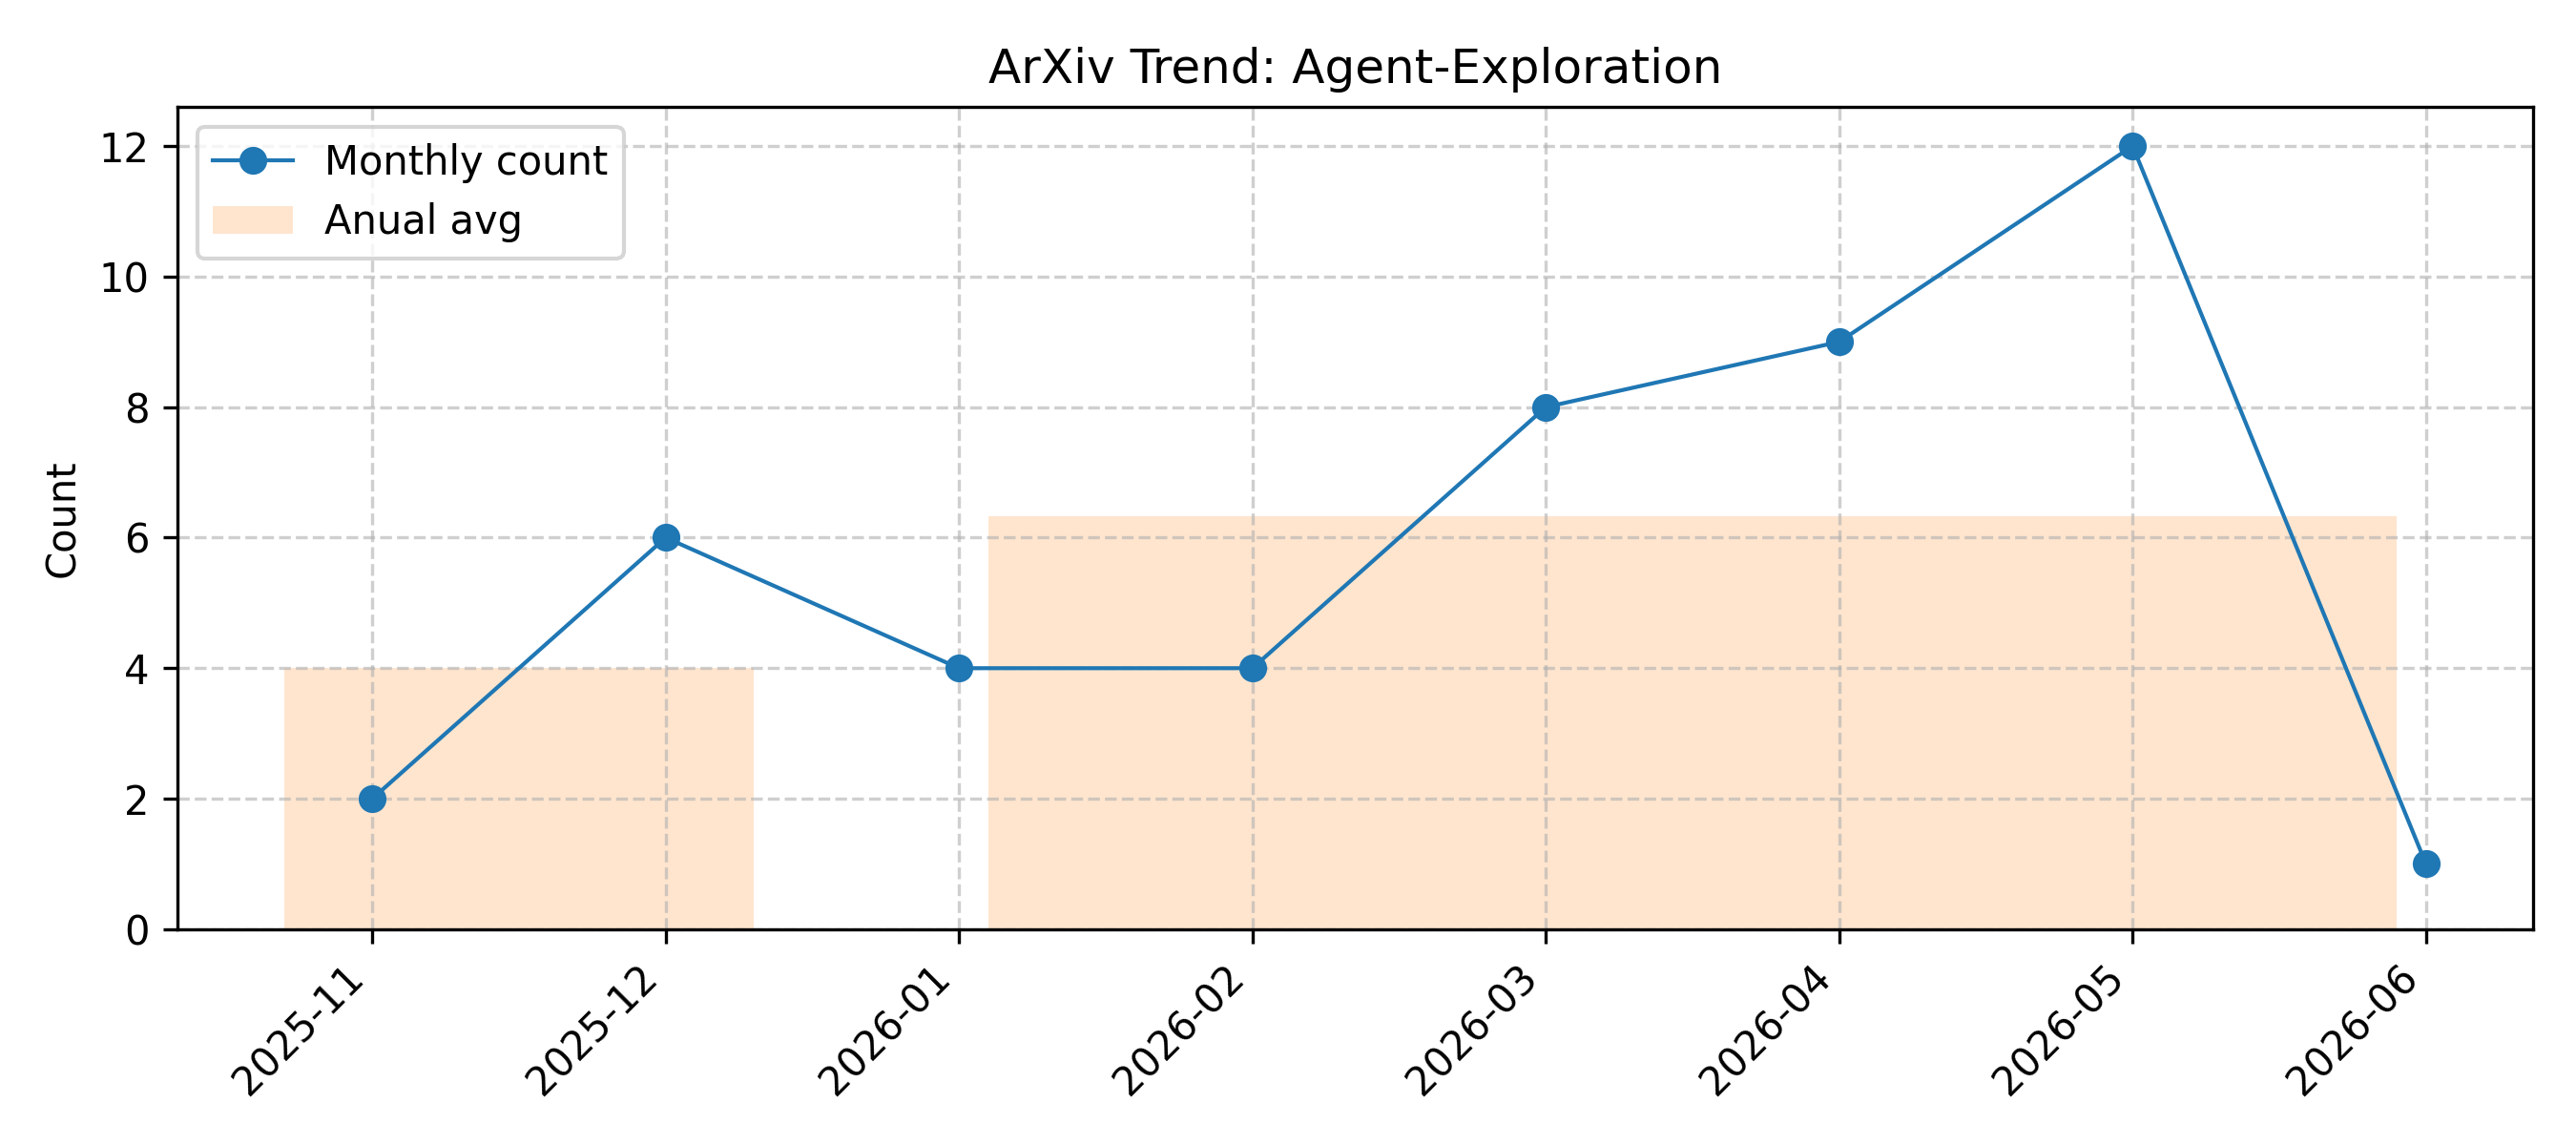
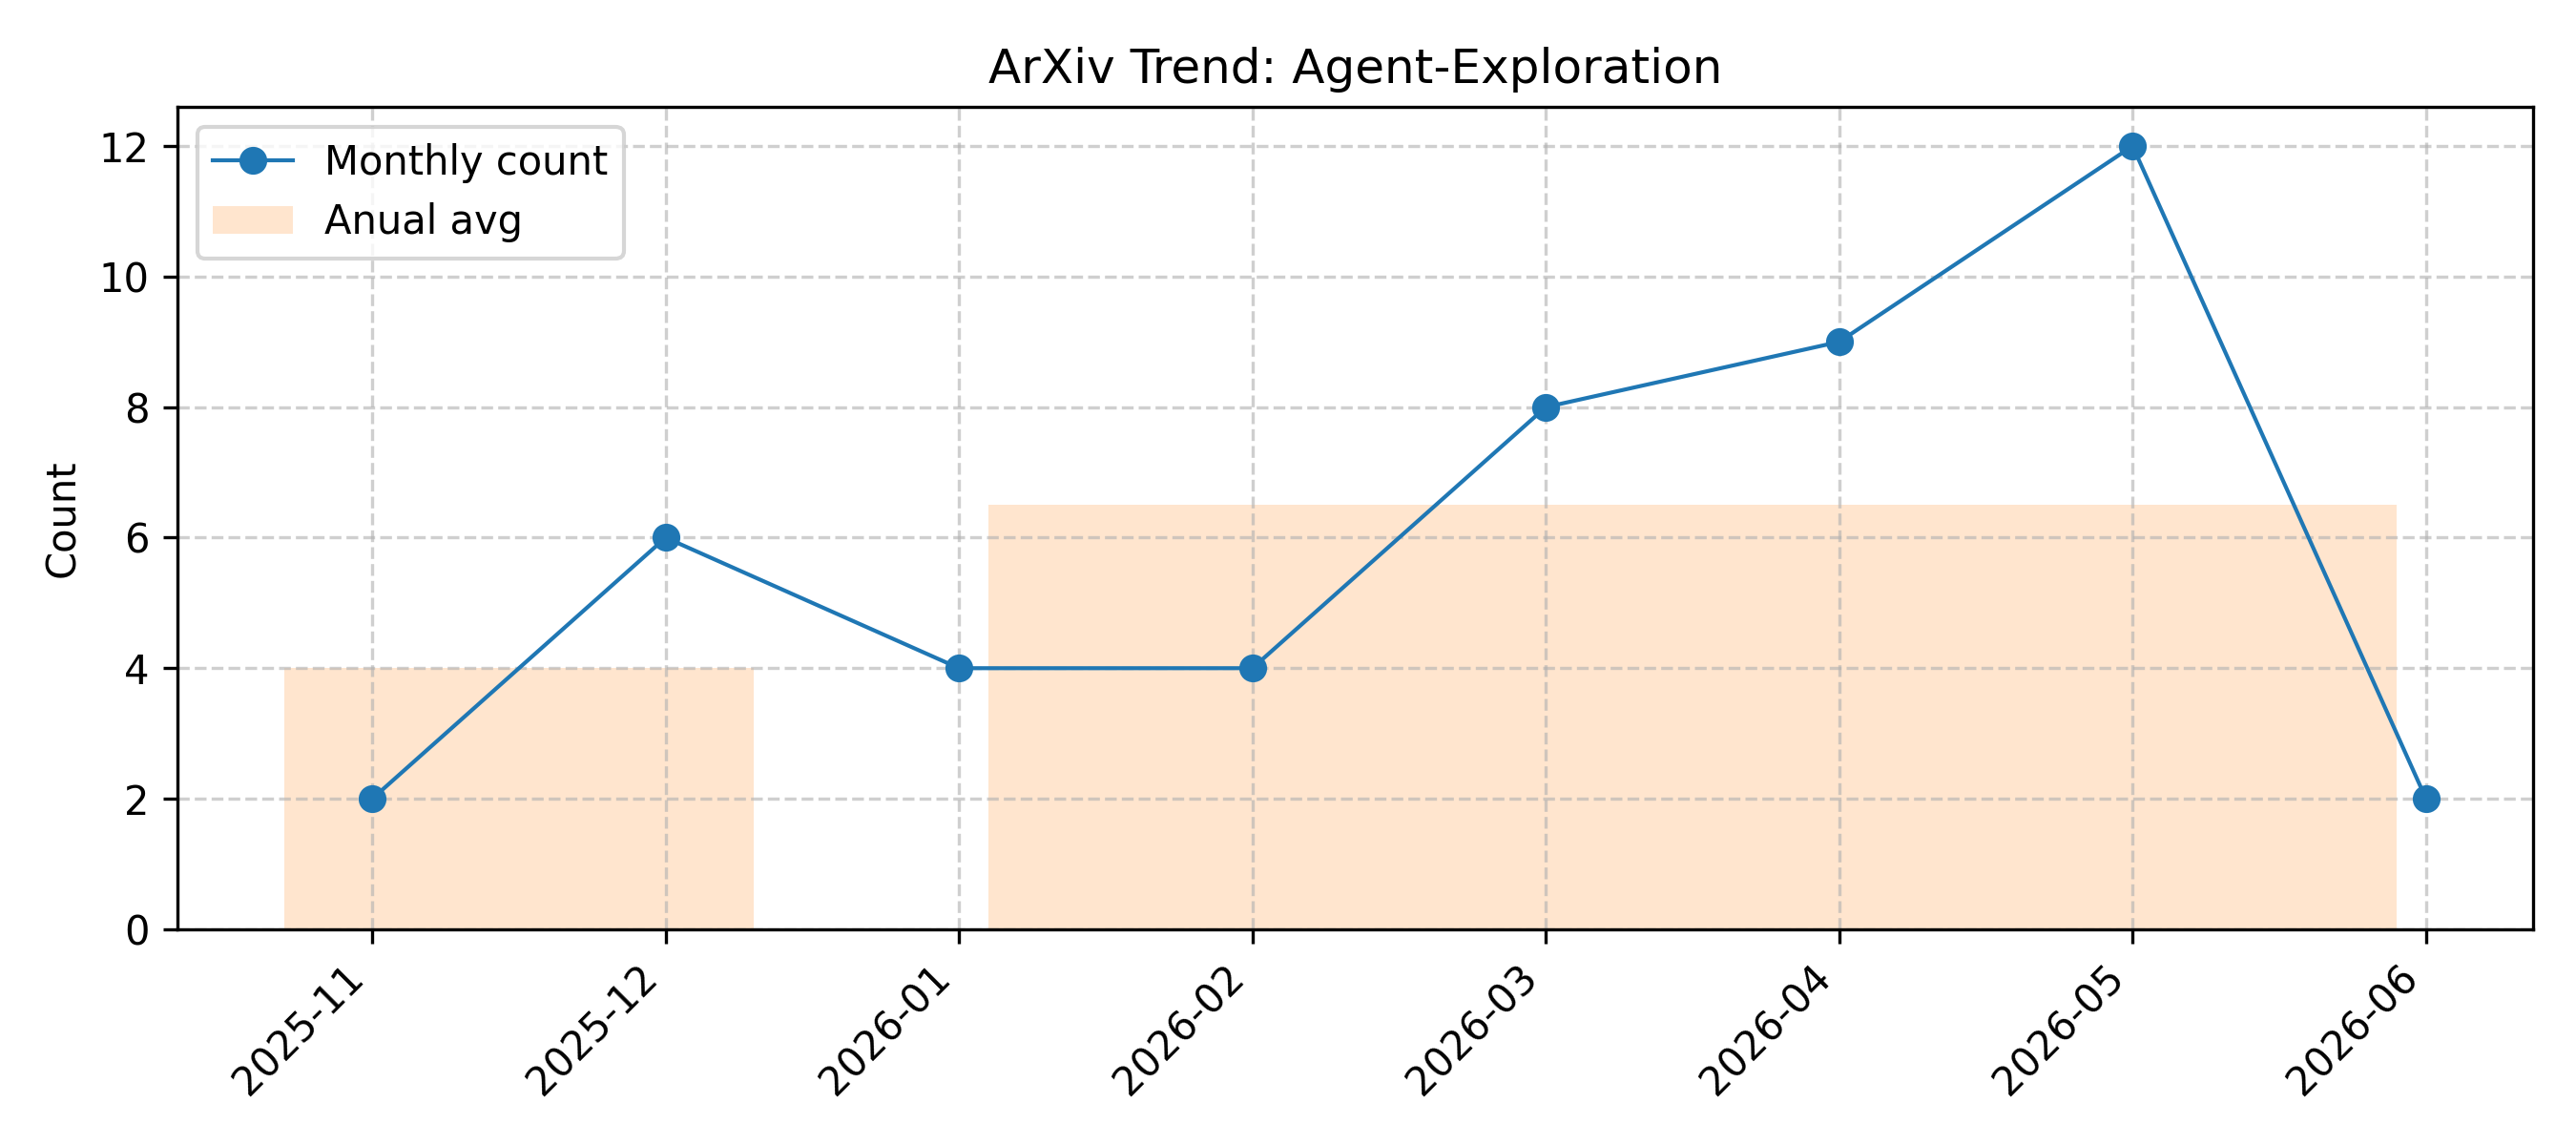
Github Action Automatic Update Arxiv Papers

diff --git a/CodeGeneration_LLM.md b/CodeGeneration_LLM.md
@@ -1,6 +1,6 @@
 # CodeGeneration_LLM
 
-> Updated on 2026.06.10
+> Updated on 2026.06.11
 
 [🔙 Back to Index](README.md)
 
@@ -8,6 +8,10 @@
 
 | Date | Title | Categories | Abstract | PDF | Code |
 |:---|:---|:---|:---|:---|:---|
+|**2026-06-10**|**Breaking Entropy Bounds: Accelerating RL Training via MTP with Rejection Sampling**|cs.LG, cs.CL| <details><summary>Full Abstract</summary>Reinforcement learning (RL) has become a key component in modern large language models, yet the rollout stage remains the key bottleneck in RL training pipelines. Although Multi-Token Prediction (MTP) offers a natural solution to accelerate rollouts through speculative decoding, many studies have observed that MTP acceptance rates degrade significantly during RL training, leading to limited speedup performance. To address this bottleneck, we present Bebop, a systematic study of MTP in LLM post-training, and offer practical recipes to integrate MTP into large-scale RL pipelines. First, we reveal that the MTP acceptance rate is fundamentally bounded by the fluctuation of model entropy, which demonstrates a clear negative linear relationship with the rise of entropy in the RL stage. Second, we show that probabilistic rejection sampling largely alleviates the disturbance introduced by entropy in RL compared to greedy draft sampling. We further identify that the conventional MTP training objectives (cross-entropy or KL) are suboptimal in such settings, and therefore we propose a novel end-to-end TV loss that directly optimizes multi-step rejection sampling acceptance rate, yielding ~10% acceptance rate improvements, achieving up to 95% acceptance rates and up to 25% extra inference throughput gains across mathematical reasoning, code generation, and agentic tasks. Third, we test various online MTP training strategies during RL and show that pre-RL MTP training with e2e TV loss and rejection sampling achieves a consistent acceptance rate and speedup throughout the entire RL, eliminating the need for costly online MTP updating. We provide extensive experiments and analysis that validate our findings. Experimental results show our method achieves up to 1.8x end-to-end acceleration in async RL training of Qwen3.5, Qwen3.6, and Qwen3.7 models.</details>|[2606.12370v1](http://arxiv.org/abs/2606.12370v1)| null|
+|**2026-06-10**|**Agreement in Representation Space for Open-Ended Self-Consistency**|cs.CL| <details><summary>Full Abstract</summary>Self-consistency improves LLM reasoning by sampling multiple outputs and selecting the most consistent answer, but existing formulations largely rely on exact matching and therefore remain limited to tasks with categorical outputs. In this work, we study self-consistency in open-ended generation tasks such as code synthesis and text summarization. We hypothesize that consistency can be understood as a geometric property of the generation space, where semantically compatible generations concentrate in similar regions of representation space. To study this hypothesis, we introduce Embedding-Based Agreement (EBA), a simple training-free operationalization that estimates agreement by clustering sampled generations in embedding space. Through experiments on mathematical reasoning, code generation, and summarization, we show that agreement in representation space provides a robust and scalable signal of self-consistency for open-ended tasks. In particular, EBA consistently outperforms random selection and exhibits more stable scaling behavior than recent selection approaches based on LLM evaluation or uncertainty estimation. We further show that these agreement signals remain stable across model families and embedding spaces, even with native hidden representations. Finally, our analysis shows that the geometric location occupied by sampled generations is strongly correlated with generation quality: generations concentrated near central regions of representation space tend to correspond to more reliable outputs, whereas peripheral generations are substantially less accurate. Overall, our findings support viewing self-consistency as a property of the geometric organization of sampled generations rather than exact symbolic overlap.</details>|[2606.12003v1](http://arxiv.org/abs/2606.12003v1)| null|
+|**2026-06-10**|**Grammar-Constrained Decoding Can Jailbreak LLMs into Generating Malicious Code**|cs.CR, cs.AI, cs.CL, cs.SE| <details><summary>Full Abstract</summary>Large Language Models (LLMs) are increasingly used for code generation, raising concerns that they may be misused to produce malicious code. Meanwhile, Grammar-Constrained Decoding (GCD) has been widely adopted to improve the reliability of LLM-generated code by enforcing syntactic validity. In this paper, we reveal a counterintuitive risk: this reliability-oriented technique can itself become an attack surface. We uncover a new jailbreak attack, termed CodeSpear, that exploits GCD to induce LLMs into generating malicious code. Our experiments show that simply applying a benign code grammar constraint can effectively jailbreak LLMs.   To address this vulnerability, we propose CodeShield, a safety alignment approach that robustly preserves safe behavior even under attacker-controlled grammar constraints. CodeShield aligns the model in the code modality by teaching it to generate honeypot code under GCD. Such code is semantically harmless, so it does not implement the malicious request, and structurally diverse, so it is difficult to suppress through grammar tightening. At the same time, CodeShield still preserves natural-language refusals when natural language is available. Experiments on 10 popular LLMs across 4 benchmarks show that CodeSpear outperforms representative jailbreak baselines and increases the attack success rate by more than 30 percentage points on average. CodeShield also restores safety under CodeSpear while preserving benign utility. Our findings reveal a fundamental risk of GCD and call for greater attention to its potential security implications.</details>|[2606.11817v1](http://arxiv.org/abs/2606.11817v1)| null|
+|**2026-06-09**|**Counterexample Guided Learning in the Large using Reasoning Agents**|cs.LG| <details><summary>Full Abstract</summary>LLMs and LLM agents should improve when given feedback, but identifying when they are able to do so is difficult: feedback is heterogeneous, domain-specific, and difficult to control. We approach this challenge by asking LLMs to perform regular-expression induction, a classical symbolic learning problem where precise mechanisms for feedback exist in the form of counterexamples. In counterexample-guided learning, a learner (LLM) proposes candidate regular expressions from positive/negative-labeled strings, and the teacher (verifier) returns counterexamples showcasing the difference between the candidate and target languages. We identify novel counterexample-guided refinement strategies that enable effective regex learning, such as regularization and symbolic counterexample clusters. We also explore agentic strategies such as reflection and repair loops. Empirically, we find that verifier feedback substantially improves sample efficiency on challenging regex-induction tasks, reducing the number of labeled examples required and enabling learning of complex target expressions where standard prompting fails. For example, on the hardest task groups, our counterexample-guided framework improves success from 3.2% to 38.1% and from 38.9% to 74.1% on two different regex domains. These results suggest that LLMs can benefit from rich feedback beyond treating it as additional data, opening the door for robust verifier-guided methods for LLM-based program synthesis and formal reasoning.</details>|[2606.11521v1](http://arxiv.org/abs/2606.11521v1)| null|
 |**2026-06-09**|**Mind the Gap: Can Frontier LLMs Pass a Standardized Office Proficiency Exam?**|cs.AI, cs.CL| <details><summary>Full Abstract</summary>The deployment of Large Language Model (LLM) agents for computer automation is accelerating, yet their ability to navigate complex, professional-grade productivity software is largely untested. We argue that Office automation is an ideal environment for benchmarking document-automation capability, as it requires long-horizon planning and reasoning, precise parameter configuration, and multi-application integration. To quantify this capability, we introduce an evaluation based on China's National Computer Rank Examination (NCRE), featuring 200 comprehensive practical-operation tasks across Word, Excel, and PowerPoint. Each task is scored on a 100-point rubric scale using 7,118 machine-gradable criteria, and Score Rate (SR) denotes the mean percentage of rubric points earned across these tasks. We benchmark 7 frontier LLMs and observe stark limitations: single-turn models score a maximum of 36.6%. A stronger agentic system with execution feedback, iterative repair, and broader Office automation access reaches 68.8%, but remains below the 95.5% community-reference score used as a scoring sanity check. Ultimately, our experiments demonstrate that despite recent advancements in code generation, achieving reliable fine-grained Office document automation remains a significant challenge for current code-generating LLM and agent systems.</details>|[2606.10956v1](http://arxiv.org/abs/2606.10956v1)| null|
 |**2026-06-09**|**Context-Based Adversarial Attacks on AI Code Generators: Vulnerability Analysis and Implications**|cs.CR, cs.SE| <details><summary>Full Abstract</summary>AI-powered code generation systems have transformed software development but introduce critical inference-time security vulnerabilities. This research presents a systematic investigation of context-based adversarial attacks, where strategically crafted contextual inputs, including comments, documentation, variable names, bias large language models toward generating exploitable code. Through 2,800 controlled experiments across CodeT5+, CodeLlama, GPT-3.5-Turbo, and GPT-4, we quantify attack effectiveness and defense mechanisms. Results demonstrate that adversarial conditions increase vulnerability generation 10.7x (from 3.5% to 37.4%), with direct instruction attacks achieving 100% success on GPT-3.5-Turbo. Cross-model transferability reaches 60-100%, indicating systemic architectural vulnerabilities rather than model-specific flaws. Our dual-layer defense framework achieves 89.1% detection rate with 0.3% false positives and 520ms latency, demonstrating practical feasibility for real-time deployment in development environments.</details>|[2606.10945v1](http://arxiv.org/abs/2606.10945v1)| null|
 |**2026-06-09**|**A Constrained Natural-Language Interface for Variational Multi-Physics Finite Element Simulations in FEniCS**|cs.CE, cs.AI, cs.LG, physics.comp-ph| <details><summary>Full Abstract</summary>Large language models can reduce the manual effort required to set up finite element simulations, but they introduce reliability risks when generated solver code lies on the critical path. We present a constrained natural-language interface for multi-physics finite element analysis in which the LLM is limited to front-end tasks: parsing prompts into structured JSON, generating Gmsh code only for non-catalog geometries, and using retry feedback for those stages. It never writes FEniCS solver templates, derives weak forms, or writes the numerical solver core. A deterministic dispatcher maps the validated specification to five human-written FEniCS/UFL templates: linear elasticity, hyperelasticity, elastoplasticity, thermo-mechanical coupling, and phase-field fracture. We validate this deterministic template layer against analytical solutions and published 2D/3D benchmarks. Smooth cases reach sub-percent agreement on adequate meshes, while harder nonlinear cases reach the 2-5 percent range. We also evaluate the LLM-facing front end directly. In a 15-prompt parser benchmark, first-pass valid parses were obtained for 9 cases, and all remaining cases were repaired after retry, giving a final valid parse rate of 100.0 percent, 100.0 percent problem-class accuracy, and 97.1 percent field-extraction accuracy. In a 10-case custom-geometry benchmark routed through the real LLM-to-Gmsh path, first-pass and final success were both 90.0 percent, with one unrecovered invalid-geometry failure. These results show that the parser and constrained prompt/validation design are effective on these benchmarks. As an end-to-end demonstration, the system generates and analyzes a 3D elastoplastic L-bracket with a fillet and bolt hole from one natural-language prompt. The contribution is a measured architecture for natural-language-driven variational simulation, not open-ended autonomous code generation.</details>|[2606.10928v1](http://arxiv.org/abs/2606.10928v1)| null|

diff --git a/MA-CoEvo.md b/MA-CoEvo.md
@@ -1,6 +1,6 @@
 # MA-CoEvo
 
-> Updated on 2026.06.10
+> Updated on 2026.06.11
 
 [🔙 Back to Index](README.md)
 
@@ -8,13 +8,14 @@
 
 | Date | Title | Categories | Abstract | PDF | Code |
 |:---|:---|:---|:---|:---|:---|
+|**2026-06-10**|**Agentic Environment Engineering for Large Language Models: A Survey of Environment Modeling, Synthesis, Evaluation, and Application**|cs.CL, cs.AI| <details><summary>Full Abstract</summary>Environments serve as interactive systems for large language model (LLM) based agents across diverse scenarios and play a crucial role in driving the continual evolution of model capabilities. Despite this importance, existing work lacks a systematic categorization and deep analysis. This paper systematically studies current researches on agentic environments from the perspective of the environment engineering lifecycle, covering their modeling, synthesis, evaluation and application. Specifically, the paper first introduces representative environments from the perspectives of eight attributes and eight domains, providing detailed analyses of their development paths and highlighting their core capabilities. Second, for automated environment synthesis, two paradigms are introduced, such as symbolic synthesis and neural synthesis. This paper also shows different environment evaluation methods in each paradigm. Thirdly, the corresponding environment applications from the perspective of agent-environment co-evolution are discussed. In specific, the paper characterizes the primary pathways for agent evolution in dynamic environments from four complementary perspectives: memory-centric experience evolution, orchestration-centric workflow evolution, trajectory-centric offline evolution, and exploration-centric online evolution. And three paradigms of environment evolution are identified, namely neural-driven, difficulty-driven, and scaling-driven approaches. At last, several promising future directions are discussed, including Environment-as-a-Service, Multi-agent Environments, and Neural-Symbolic Environments.</details>|[2606.12191v1](http://arxiv.org/abs/2606.12191v1)| null|
 |**2026-06-09**|**EEVEE: Towards Test-time Prompt Learning in the Real World for Self-Improving Agents**|cs.LG, cs.AI| <details><summary>Full Abstract</summary>In this paper, we propose EEVEE, the first multi-dataset test-time prompt learning framework for LLM agents, enabling test-time prompt learning under real-world task streams. Existing methods are largely designed for single-dataset settings, while real-world applications require models to handle heterogeneous input streams drawn from multiple datasets, domains, and task distributions, limiting their practical applicability. To mitigate cross-dataset interference, EEVEE introduces a router that partitions incoming inputs into task clusters and assigns them to suitable prompt configurations. This design is optimized via a router-prompt co-evolution strategy, which employs interleaved router and prompt learning phases to address their mutual dependency. Experiments across multiple datasets demonstrate that the framework improves robustness under heterogeneous data streams while maintaining single-benchmark learning capability and efficiency. Specifically, EEVEE improves average multi-benchmark scores by 10.38 and 24.32 points over Qwen3-4B-Instruct and DeepSeek-V3.2, surpassing SOTA methods GEPA and ACE by up to 37.2% and 48.2%.</details>|[2606.11182v1](http://arxiv.org/abs/2606.11182v1)| null|
 |**2026-06-09**|**Role-Agent: Bootstrapping LLM Agents via Dual-Role Evolution**|cs.AI| <details><summary>Full Abstract</summary>Although Large Language Model (LLM) agents have demonstrated strong performance on complex tasks, their learning is often limited by inefficient interaction feedback and static training environments, which hinder broader generalization. To address these limitations, this paper introduces Role-Agent, \textcolor{black}{a framework} that harnesses a single LLM to function concurrently as both the agent and the environment, enabling a bootstrapped co-evolution. Role-Agent comprises two synergistic components: World-In-Agent (WIA) and Agent-In-World (AIW). In WIA, the LLM acts as the agent and predicts future states after each action; the alignment between predicted and actual states is then used as a process reward, encouraging environment-aware reasoning. In AIW, the LLM analyzes failure modes from failed trajectories and retrieves tasks with similar failure patterns, thereby reshaping the training data distribution for targeted practice. Experiments on multiple benchmarks show that Role-Agent consistently improves performance, yielding an average gain of over 4\% over strong baselines.</details>|[2606.10917v1](http://arxiv.org/abs/2606.10917v1)| null|
 |**2026-06-09**|**Effective Reinforcement Learning for Agentic Search by Recycling Zero-Variance Queries During Training**|cs.IR, cs.AI| <details><summary>Full Abstract</summary>The use of GRPO-style algorithms has become the standard strategy for training LLM search agents under outcome-only rewards. With these algorithms, a query contributes to parameter updates only when its rollout group mixes successes and failures; all-correct (too-easy) and all-incorrect (too-hard) groups are zero-variance and waste rollout cost. Existing approaches treat zero-variance as a static property and either discard or pre-filter such groups. We hypothesize and empirically validate that queries flip between zero-variance and signal-bearing states as the policy evolves during training. Building on this intuition, we propose query recycling, which returns zero-variance groups to a mutable pool for future resampling, so that the effective training distribution co-evolves with the policy. With the proposed technique, a 1.7B parameter model trained on synthetic data can reach 66.0 average Pass@1 accross seven multi-hop QA benchmarks, matching or surpassing systems with up to 7B parameters trained on benchmark-derived supervision. Analysis of recycling patterns shows that recycled queries supply roughly three quarters of the effective batch by the end of training, with contributions split between recovery from policy improvement and policy drift.</details>|[2606.10709v1](http://arxiv.org/abs/2606.10709v1)| null|
 |**2026-06-09**|**Beyond Static Evaluation: Co-Evolutionary Mechanisms for LLM-Driven Strategy Evolution in Adversarial Games**|cs.AI| <details><summary>Full Abstract</summary>Recent advances in LLM-driven code evolution have enabled automated discovery by iteratively generating and improving programs. However, applying these methods to adversarial multi-agent games introduces a fundamental challenge: the evaluation landscape shifts as strategies improve, causing fixed evaluators to become unreliable and evolution to stagnate. We propose three mechanisms to address this challenge: evaluator co-evolution, which incorporates discovered champions into the opponent pool; hierarchical deep evaluation, which replaces noisy few-game scores with statistically reliable assessments; and weakness pressure, which dynamically up-weights the most difficult opponents to break through plateaus. We implement these mechanisms within FAMOU, a framework built upon the same foundation-model code-evolution paradigm as OpenEvolve and ShinkaEvolve. On the MCTF 2026 3v3 maritime capture-the-flag task, FAMOU consistently outperforms both baselines under two backbone LLMs, achieving the highest combined score (0.526) and the best generalization to unseen opponents (61.7% win rate), while ablations confirm that each mechanism contributes to performance. Notably, the LLM mutation process generates tactical structures entirely absent from the seed strategies -- including lookahead search and adaptive interception -- demonstrating that code-level evolution can produce nontrivial algorithmic innovations in adversarial settings. The FAMOU-evolved strategy further achieved 1st place in the hardware round-robin and 3rd in simulation at the AAMAS 2026 MCTF Competition, validating its real-world transferability. The optimized implementation and corresponding evaluation codes developed through our evolutionary process are available at: https://github.com/1xiangliu1/FAMOU-CoEvo</details>|[2606.10389v1](http://arxiv.org/abs/2606.10389v1)| null|
 |**2026-06-07**|**Co-Evolving Skill Generation and Policy Optimization**|cs.CL| <details><summary>Full Abstract</summary>Skill-augmented reinforcement learning improves language agents by storing reusable procedural knowledge acquired from past experience. Existing methods typically use strong language models to analyze trajectories, generate skills, and update a retrievable skill bank during online training. However, they rarely assess whether a newly generated skill is useful before it is stored and reused. We find that this assumption is unreliable: even skills generated by proprietary frontier LLMs exhibit highly mixed utility, with many providing little benefit or even degrading performance. Once such skills enter the bank, their effects are difficult to identify, because subsequent rollout feedback is delayed and usually reflects the combined effect of multiple retrieved skills rather than the marginal contribution of any individual skill. We propose an online reinforcement learning framework for pre-storage skill validation. The framework estimates whether a candidate skill contributes useful information beyond the skills already retrieved for the current task. It uses the standard rollout budget to form two matched groups under the same task and retrieval context: base rollouts conditioned on the currently retrieved skills, and skill-augmented rollouts conditioned on the same skills plus one candidate skill induced from the base trajectories. The reward gap between these two groups estimates the candidate skill's context-dependent marginal utility, enabling the framework to promote useful skills while filtering ineffective or harmful ones without additional rollout overhead. The framework further uses this marginal-utility signal to train the policy itself as a skill generator, reducing reliance on repeated calls to proprietary models. The learned skill-generation likelihood serves as a context-dependent score for retrieval-time reranking and outdated-skill pruning as the policy evolves.</details>|[2606.08755v1](http://arxiv.org/abs/2606.08755v1)| null|
 |**2026-06-05**|**Self-evolving LLM agents with in-distribution Optimization**|cs.LG| <details><summary>Full Abstract</summary>Large Language Models (LLMs) have recently emerged as powerful controllers for interactive agents in complex environments, yet training them to perform reliable long-horizon decision making remains a fundamental challenge. A key difficulty lies in credit assignment: agents often receive delayed rewards only at the end of episodes. In this paper, we propose Q-Evolve, a self-evolving framework for LLM agents that unifies automatic process-reward labeling and policy learning within a principled in-distribution reinforcement learning paradigm. In each evolving iteration, our method learns an in-distribution critic from a hybrid off-policy dataset that combines expert demonstrations with agent-generated trajectories, stabilizing Bellman backups in sparse-reward settings via a weighted Implicit Q-Learning objective. The learned value function is then used to derive step-wise process rewards through advantage estimation, enabling dense and reliable supervision without environment backtracking or human annotation. Leveraging these signals, we perform behavior-proximal policy optimization that evolves the agent over the data used for process reward labeling, allowing iterative self-improvement without exacerbating distribution shift. We evaluate our method on AlfWorld, WebShop, and ScienceWorld, showing Q-Evolve outperforms strong baselines in sample efficiency, robustness, and overall task performance. Our results demonstrate that stable agent self-evolution is achievable through the co-evolution of process-level supervision and policy, both grounded within a shared in-distribution learning loop.</details>|[2606.07367v1](http://arxiv.org/abs/2606.07367v1)| null|
-|**2026-06-05**|**DataEvolver: Automatic Data Preparation for Large Language Models through Multi-Level Self-Evolving**|cs.DB, cs.AI| <details><summary>Full Abstract</summary>High-quality training data is essential to large language models (LLMs) and typically requires extensive and costly manual curation. Existing automatic data preparation methods rely on predefined pipelines or customized human instructions, which limits their adaptability to diverse data distributions and lacks principled guidance from high-quality examples. In this paper, we introduce DataEvolver, the first self-evolving data preparation system that automatically constructs pipelines to transform raw data into high-quality data. DataEvolver employs a multi-level mechanism to ensure both pipeline executability and effectiveness. At the operator level, it incrementally expands the operator set to construct a logical plan while resolving dependency conflicts. At the pipeline level, it instantiates logical plans into executable code and iteratively refines pipeline orchestration through a feedback loop that reduces the distribution gap between prepared data and high-quality examples. Experiments on seven benchmarks show that DataEvolver substantially improves data quality and achieves an average 10\% gain in downstream LLM performance compared with training on original data, highlighting new opportunities for the iterative co-evolution of LLMs and data.</details>|[2606.07001v1](http://arxiv.org/abs/2606.07001v1)| null|
+|**2026-06-10**|**DataEvolver: Automatic Data Preparation for Large Language Models through Multi-Level Self-Evolving**|cs.DB, cs.AI| <details><summary>Full Abstract</summary>High-quality training data is essential to large language models (LLMs) and typically requires extensive and costly manual curation. Existing automatic data preparation methods rely on predefined pipelines or customized human instructions, which limits their adaptability to diverse data distributions and lacks principled guidance from high-quality examples. In this paper, we introduce DataEvolver, the first self-evolving data preparation system that automatically constructs pipelines to transform raw data into high-quality data. DataEvolver employs a multi-level mechanism to ensure both pipeline executability and effectiveness. At the operator level, it incrementally expands the operator set to construct a logical plan while resolving dependency conflicts. At the pipeline level, it instantiates logical plans into executable code and iteratively refines pipeline orchestration through a feedback loop that reduces the distribution gap between prepared data and high-quality examples. Experiments on seven benchmarks show that DataEvolver substantially improves data quality and achieves an average 10\% gain in downstream LLM performance compared with training on original data, highlighting new opportunities for the iterative co-evolution of LLMs and data.</details>|[2606.07001v2](http://arxiv.org/abs/2606.07001v2)| null|
 |**2026-06-04**|**CHASE: Adversarial Red-Blue Teaming for Improving LLM Safety using Reinforcement Learning**|cs.CL| <details><summary>Full Abstract</summary>Despite advances in safety alignment, prompt-rewriting attacks such as persona modulation, fictional framing and persuasion-based reformulation, can bypass safety filters even on frontier models. Existing defenses either rely on non-scalable human curation or white-box optimisation that overfits to specific model internals, leaving aligned models brittle against the very class of adaptive black-box adversaries they will face in deployment. To address this gap, we introduce CHASE (Co-evolutionary Hardening through Adversarial Safety-Escalation), a closed-loop red-blue teaming framework in which a black-box attacker and a safety-aligned defender co-evolve. The attacker is trained via Group Relative Policy Optimization (GRPO) under a multiplicative reward that jointly enforces bypass effectiveness and intent fidelity, while the defender is hardened on the harvested adversarial rewrites through a two-stage GRPO + rejection-sampled SFT pipeline balanced with benign data. Evaluated on BeaverTails and JailbreakBench against five held-out attack families (PAIR, TAP, AutoDAN, PAP, Translation), CHASE cuts mean StrongREJECT score by 43.2\% with 0\% false-refusal on benign prompts. Beyond the headline result, CHASE shows that template-free RL exploration recovers latent attack primitives that transfer across mechanistically distinct attack families, suggesting a path toward LLM safety hardening that generalises beyond the narrow distributions achieved thus far in adversarial training.</details>|[2606.05523v1](http://arxiv.org/abs/2606.05523v1)| null|
 |**2026-06-03**|**Learning While Acting: A Skill-Enhanced Test-Time Co-Evolution Framework for Online Lifelong Learning Agents**|cs.LG, cs.AI| <details><summary>Full Abstract</summary>Lifelong learning is essential for Large Language Model (LLM) agents operating in dynamic, interactive environments. However, existing lifelong learning agents for long-horizon tasks typically depend on discrete skill or past experiences retrieval with static parameters during inference, which prevents them from continuously internalizing test-time feedback like human learners. To bridge this gap, we propose Skill-enhanced Test-Time Co-Evolution (\texttt{LifeSkill}), a two-stage reinforcement learning framework for Online Lifelong Learning Agents. Specifically, we design Verifier-Guided Skill Learning that addresses the lack of direct supervision for skill extraction by rewarding candidate skills according to the average verifier success of multiple skill-conditioned policy rollouts, encouraging the model to generate skills that are useful for solving tasks rather than merely plausible in text. Furthermore, we introduce Online Skill Internalization, which continuously improves the policy model during test-time interaction by transforming skill-conditioned trajectories into reward signals. This enables the agent to directly internalize reasoning capabilities into its parameters, avoiding the context bloat of experience retrieval. Experiments on LifelongAgentBench show that LifeSkill improves average performance by 7 absolute points by comparing with existing lifelong agent baselines.</details>|[2606.04815v1](http://arxiv.org/abs/2606.04815v1)| null|
 |**2026-06-03**|**Self-Evolving Deep Research via Joint Generation and Evaluation**|cs.CL, cs.AI| <details><summary>Full Abstract</summary>Large Language Models (LLMs) have become increasingly adopted in daily applications, with deep research standing out as a particularly important capability. Unlike traditional question-answering (QA) tasks, deep research report generation lacks definitive ground-truth, making reward design inherently unverifiable and limiting effective reinforcement learning. Existing approaches mitigate this challenge with LLM-as-a-judge and query-dependent evaluation rubrics, but they still rely on static evaluators that cannot adapt their standards as the solver improves, leading to insufficient and eventually saturated optimization pressure. We address this limitation with a \textbf{s}elf-evolving \textbf{co}-evolutionary training framework for deep \textbf{re}search evaluation and generation (SCORE), which tightly couples an evaluator and a solver in a shared-parameter learning process. Rather than treating generation and evaluation as isolated modules, we leverage their intrinsic connection to enable joint improvement within a single shared-parameter model. To restrict this process, we introduce a meta-harness, which dynamically controls the evaluation environment based on solver performance, encouraging valid evaluation dimensions and sufficiently deep evaluator search. Extensive experiments on deep research benchmarks demonstrate consistent improvement in report generation quality, showing that co-evolving evaluation and generation is a promising direction for training open-ended research agents.</details>|[2606.04507v1](http://arxiv.org/abs/2606.04507v1)| null|

diff --git a/Agent-Exploration.md b/Agent-Exploration.md
@@ -1,6 +1,6 @@
 # Agent-Exploration
 
-> Updated on 2026.06.10
+> Updated on 2026.06.11
 
 [🔙 Back to Index](README.md)
 
@@ -8,6 +8,7 @@
 
 | Date | Title | Categories | Abstract | PDF | Code |
 |:---|:---|:---|:---|:---|:---|
+|**2026-06-10**|**Exploration Structure in LLM Agents for Multi-File Change Localization**|cs.SE, cs.AI| <details><summary>Full Abstract</summary>Software engineering tools increasingly rely on LLM based agents to localize files to change to resolve a software issue. Most AI agents explore repositories linearly, that is, visiting one directory or file per step. We postulate that this is a structural mismatch for changes that span several subsystems. We compare linear sequential exploration against non-linear, domain-scoped parallel agentic exploration. Using SWE Bench Pro as initial benchmark, we focus on ansible as an exemplar. We construct an approach for persistent-session evaluation of GitHub issues anchored at a single base commit. We compare our non-linear domain-agent file traversal system against a base LLM without direct repository access, a single agent Recursive Language Model (RLM) baseline with a persistent Python REPL and an external CLI baseline using Codex 5.5 High. Domain scoped parallel agent spawning with a small Haiku-class model achieves the highest micro F1 among Haiku class models by a large margin. Domain-agents is the second highest behind only the much larger Codex 5.5 High on our own expanded benchmark including over more recent PRs from 2025 and 2026. On the original, curated, 2020 SWE-bench Pro benchmark, a larger Sonnet plain LLM baseline attains higher micro F1 by predicting few files, leading to higher precision, but at significantly lower all gold recall. We also present three additional findings. First, documentation evolution is a latent dependency unresolved by any approach. Second, naive file system access can degrade localization driven by test-file over prediction. Lastly, forced multi-agent consultation does not measurably help and raises token cost substantially.</details>|[2606.11976v1](http://arxiv.org/abs/2606.11976v1)| null|
 |**2026-06-02**|**Learning When Not to Act: Mitigating Tool Abuse in Agentic Reinforcement Learning**|cs.AI| <details><summary>Full Abstract</summary>Agentic reinforcement learning can induce tool abuse, where models overuse external tools even for queries solvable by internal reasoning. Existing approaches mitigate this issue with uniform tool-use penalties or hard limits, which reduce tool frequency but may also suppress useful tool-assisted exploration. We propose EAPO, an Efficient Agentic Policy Optimization framework that learns selective tool use. EAPO introduces tool-free trajectories into each rollout group, applies difficulty-aware reward shaping to penalize redundant tool calls mainly on easier queries, and uses confidence-aware token reweighting to improve policy learning. Across nine mathematical and knowledge-intensive reasoning benchmarks, EAPO consistently improves the accuracy efficiency trade-off on Qwen2.5-3B, Qwen2.5-7B, and Llama3.1-8B. Compared with GRPO, EAPO improves average performance by 10.45%, 7.27%, and 9.69%, while reducing average tool calls by 18.33%, 18.33%, and 24.59%, respectively. These results show that agents can learn when not to use tools without compromising tool-integrated reasoning.</details>|[2606.02132v2](http://arxiv.org/abs/2606.02132v2)| null|
 |**2026-05-29**|**Sophrosyne: Agentic Exploration of Relational Data Systems Needs Moderation**|cs.DB, cs.AI| <details><summary>Full Abstract</summary>Text2SQL agents powered by LLMs translate natural language intent into SQL by exploring the data system through tool calls before formulating the query. However, to ensure secure and scoped access, data systems construct environments with explicit API surfaces. We study and categorize these APIs exposed today as either coarse-grained or fine-grained and posit that choosing between them presents a fundamental tradeoff between cost-efficient exploration and accurate SQL generation. Most data systems expose fine-grained APIs, but this inadvertently disadvantages agents: they over-explore, incorporating irrelevant schema elements into their query formulation and produce inaccurate results. We argue that curbing over-exploration is key to the effective use of these API surfaces, and propose Sophrosyne, a data system environment that augments API responses with directives that guide the agent's exploration process. Initial results show that directives reduce over-exploration by 4.6x and boost accuracy by up to 12.4% (approx. 4 percentage points).</details>|[2605.30862v1](http://arxiv.org/abs/2605.30862v1)| null|
 |**2026-05-28**|**Code-QA-Bench: Separating Code Reasoning from Documentation Memorization in Repository-Level QA**|cs.SE, cs.AI| <details><summary>Full Abstract</summary>We present Code-QA-Bench, a fully automated framework for synthesizing repository-level code understanding benchmarks that separates genuine code comprehension from documentation recall and pretraining memorization. The framework makes two methodological contributions: (1) an answer-first generation pipeline where a tool-equipped agent explores source code to produce verified gold answers before deriving questions, ensuring every task is grounded in real code structure; and (2) a three-condition experimental design evaluating agents under closed-book (no repository), code-only (documentation removed), and documented (full repository) conditions, with deltas directly quantifying documentation utility and memorization.   We generate 528 code-derivable and 100 doc-dependent tasks across 10 Python repositories from SWE-Bench, scored by an LLM judge on accuracy, completeness, and specificity. Experiments on four frontier models reveal that code access is the dominant factor (+0.23 mean gain over closed-book), documentation provides modest additional benefit (+0.071 on doc-dependent tasks), and code-only $\approx$ documented on code-derivable tasks, validating the design. The framework is open-source and applicable to any well-documented Python repository.</details>|[2605.29277v1](http://arxiv.org/abs/2605.29277v1)| null|

diff --git a/GUI_LLM_RL_MA.md b/GUI_LLM_RL_MA.md
@@ -1,6 +1,6 @@
 # GUI_LLM_RL_MA
 
-> Updated on 2026.06.10
+> Updated on 2026.06.11
 
 [🔙 Back to Index](README.md)
 

diff --git a/Latent_Reasoning.md b/Latent_Reasoning.md
@@ -1,6 +1,6 @@
 # Latent_Reasoning
 
-> Updated on 2026.06.10
+> Updated on 2026.06.11
 
 [🔙 Back to Index](README.md)
 

diff --git a/MA-CoEvo-RL.md b/MA-CoEvo-RL.md
@@ -1,6 +1,6 @@
 # MA-CoEvo-RL
 
-> Updated on 2026.06.10
+> Updated on 2026.06.11
 
 [🔙 Back to Index](README.md)
 

diff --git a/README.md b/README.md
@@ -1,6 +1,6 @@
 # Daily ArXiv Papers
 
-> Last Updated: 2026.06.10
+> Last Updated: 2026.06.11
 
 This project provides daily updates on ArXiv papers regarding Multi-Agent LLMs, GUI Testing, and Code Generation. It builds upon the work of @bansky-cl, with refinements by @bbc00710086, and is currently deployed and maintained by zzz.
 